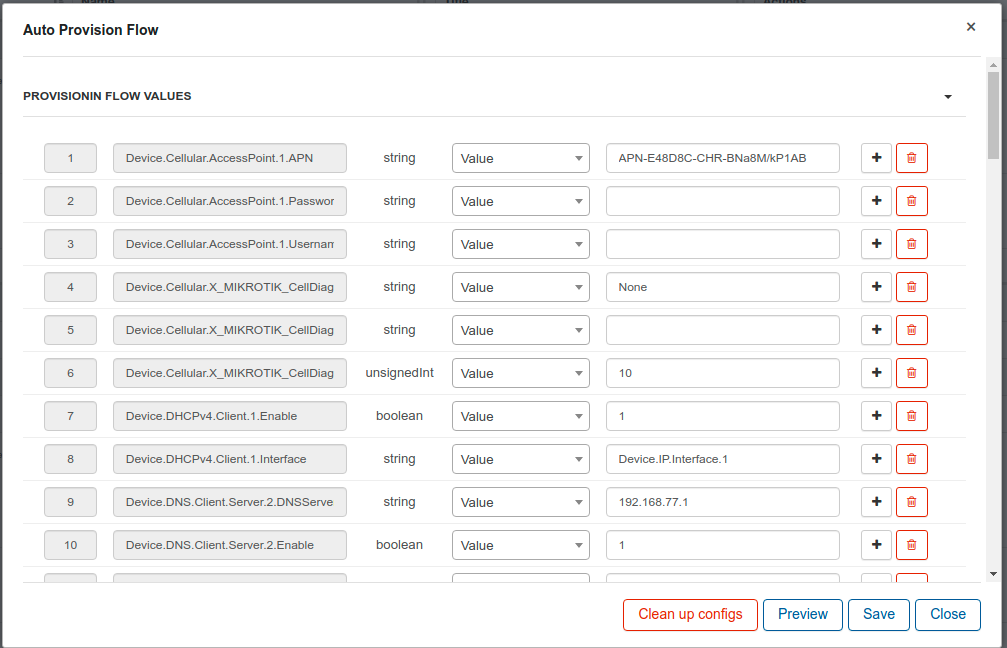
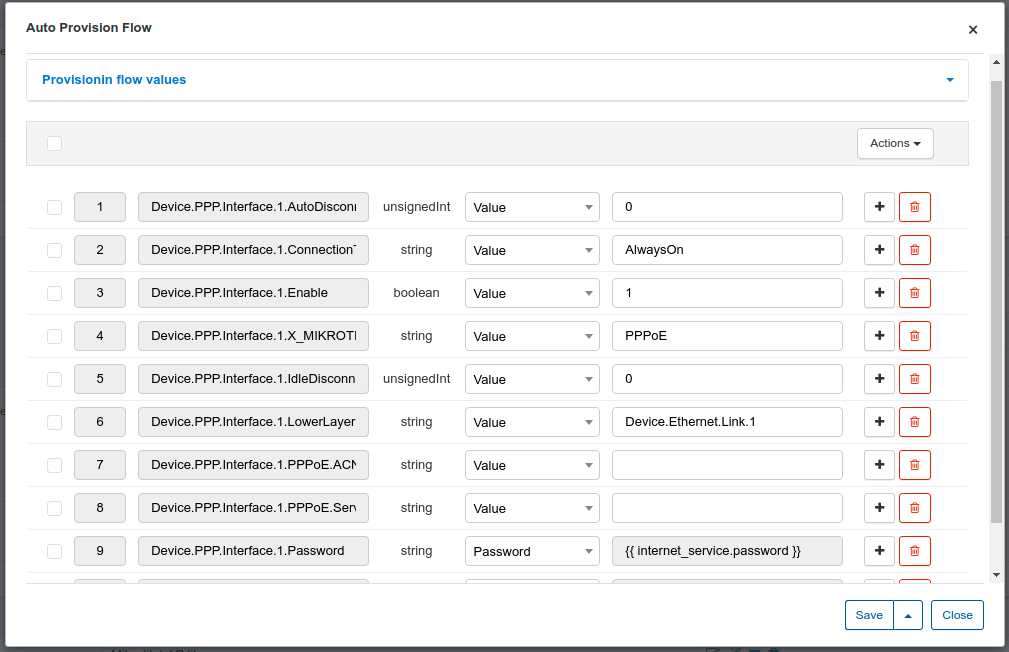
update tr-069 with new auto provisioning

diff --git a/files/networking/tr069_acs/tr069_acs.md b/files/networking/tr069_acs/tr069_acs.md
@@ -106,23 +106,31 @@ Once some device is added you can create a group base on that device, provision 
 
 We have a few options here:
 
+![wizzard options](wizzard_options.png)
+
 - **I have one fully configured device (and ready to reset configuration, (I have backup of full config)** - this option can be used when you have configured one device(Device 1) of this type and you need to configure another clear device(Device 2) with existed parameters. Splynx will grab parameters from Device 1, check what parameters can be used for Device 2 configuration and pull these changes. Or you have a backup what can be used for configuration;
 
 - **I have one non configured device and ready to configure this device (or i have backup of config and ready to apply it on next steps)** - vice versa to a previous method;
 
 - **I have two similar devices (One is fully configured, and one is not configured)** - need 2 devices, one is fully configured and another one not-configured. Configuration from both routers will be downloaded after that this config can be updated;
 
-- **I have one device and ready to play with manual insert of parameters** - download configuration from a device and edit this config manually.
+- **I have one device and ready to play with manual insert of parameters** - download configuration from a device and edit this config manually;
+
+- **I have a configuration file for import and want to import this file** - in this step you need to import a .csv file with a configuration what can be imported;
+
+- **I want to insert config manually** - manual way to configure a device;
 
 After this step you will see a window with available attributes:
 
 ![provisioning attributes](provisioning_attributes.png)
 
-You can add new items or edit existing. In the select field you can select one attribute or select option - *template* or *value*.
+You can add new items or edit existing. In the select field you can select one attribute or select a lot of other options.
 
-If you select *template* option you can use twig to create field value. If *value* - you can only set some static value.
+If you select *template* option you can use twig to create field value.
 
-![provisioning 2](provisioning_2.png)
+By click on additional button near "Save" button you can preview settings, export settings in a .csv format(for future use for configuration of other devices) or import a .csv file with settings.
+
+![provisioning 2](auto_provisioning_tools.png)
 
 
 Also you can view custom attributes here:
